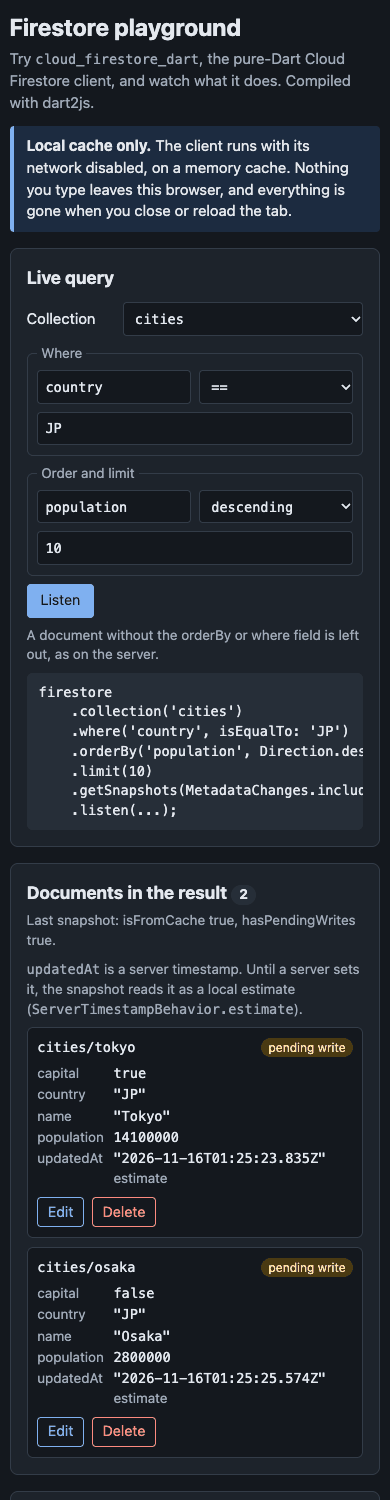
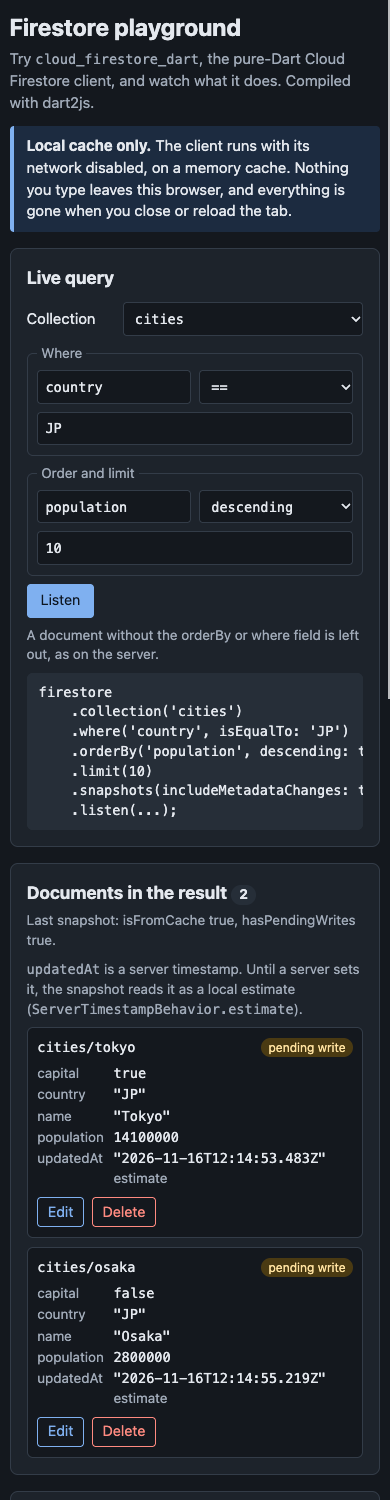
Move the playground to the 0.2 API
The page shows the Dart code of its query, which still read like 0.1
(getSnapshots, Direction). It now shows and runs the 0.2 calls; a where
clause on null becomes isNull, the only null comparison 0.2 accepts. The
screenshots are taken again because the code they show changed.

diff --git a/examples/playground/lib/playground.dart b/examples/playground/lib/playground.dart
@@ -13,7 +13,7 @@ import 'package:firebase_app_dart/firebase_app_dart.dart';
 /// the client never sends a request with them (see [openOffline]).
 const FirebaseOptions playgroundOptions = FirebaseOptions(
   apiKey: 'demo-key',
-  applicationId: '1:1234567890:web:playground',
+  appId: '1:1234567890:web:playground',
   projectId: 'demo-playground',
 );
 
@@ -25,15 +25,13 @@ const List<String> playgroundCollections = <String>['cities', 'tasks'];
 ///
 /// The client starts its network on its own queue when it is created, but it
 /// opens a stream only for a listener or a pending write. Both are queued
-/// behind [Firestore.disableNetwork] here, so no stream is ever opened and no
-/// request is ever made. A memory cache starts empty, so there is no pending
-/// write from an earlier visit that the start could try to send.
-Future<Firestore> openOffline(FirebaseApp app) async {
-  final Firestore firestore = Firestore.instanceFor(
+/// behind [FirebaseFirestore.disableNetwork] here, so no stream is ever opened
+/// and no request is ever made. A memory cache starts empty, so there is no
+/// pending write from an earlier visit that the start could try to send.
+Future<FirebaseFirestore> openOffline(FirebaseApp app) async {
+  final FirebaseFirestore firestore = FirebaseFirestore.instanceFor(
     app: app,
-    settings: FirestoreSettings().copyWith(
-      cacheSettings: const MemoryCacheSettings(),
-    ),
+    settings: Settings().copyWith(cacheSettings: const MemoryCacheSettings()),
   );
   await firestore.disableNetwork();
   return firestore;
@@ -83,12 +81,22 @@ class QuerySpec {
 
   /// The query on [firestore]. Throws what the client throws for a query it
   /// does not accept (an [ArgumentError] for an invalid field, for example).
-  Query<Map<String, Object?>> build(Firestore firestore) {
+  Query<Map<String, Object?>> build(FirebaseFirestore firestore) {
     Query<Map<String, Object?>> query = firestore.collection(collection);
     if (_hasWhere) {
       final Object? value = parseValue(whereValue);
       query = switch (op) {
         WhereOp.none => query,
+        // A null argument counts as not given: == null and != null are
+        // isNull: true and isNull: false.
+        WhereOp.isEqualTo when value == null => query.where(
+          whereField,
+          isNull: true,
+        ),
+        WhereOp.isNotEqualTo when value == null => query.where(
+          whereField,
+          isNull: false,
+        ),
         WhereOp.isEqualTo => query.where(whereField, isEqualTo: value),
         WhereOp.isNotEqualTo => query.where(whereField, isNotEqualTo: value),
         WhereOp.isLessThan => query.where(whereField, isLessThan: value),
@@ -105,10 +113,7 @@ class QuerySpec {
       };
     }
     if (orderField.isNotEmpty) {
-      query = query.orderBy(
-        orderField,
-        descending ? Direction.descending : Direction.ascending,
-      );
+      query = query.orderBy(orderField, descending: descending);
     }
     final int? max = limit;
     if (max != null) {
@@ -123,22 +128,27 @@ class QuerySpec {
       "firestore\n    .collection('$collection')",
     );
     if (_hasWhere) {
+      final Object? value = parseValue(whereValue);
       code.write(
-        "\n    .where('$whereField', ${op.name}: "
-        '${_dartLiteral(parseValue(whereValue))})',
+        "\n    .where('$whereField', "
+        '${switch (op) {
+          WhereOp.isEqualTo when value == null => 'isNull: true',
+          WhereOp.isNotEqualTo when value == null => 'isNull: false',
+          _ => '${op.name}: ${_dartLiteral(value)}',
+        }})',
       );
     }
     if (orderField.isNotEmpty) {
       code.write(
         "\n    .orderBy('$orderField'"
-        '${descending ? ', Direction.descending' : ''})',
+        '${descending ? ', descending: true' : ''})',
       );
     }
     if (limit != null) {
       code.write('\n    .limit($limit)');
     }
     code.write(
-      '\n    .getSnapshots(MetadataChanges.include)\n    .listen(...);',
+      '\n    .snapshots(includeMetadataChanges: true)\n    .listen(...);',
     );
     return code.toString();
   }

diff --git a/examples/playground/web/main.dart b/examples/playground/web/main.dart
@@ -17,7 +17,7 @@ import 'package:web/web.dart' as web;
 const int _maxEvents = 60;
 
 late final FirebaseApp _app;
-late Firestore _firestore;
+late FirebaseFirestore _firestore;
 
 /// Bumped by a reset: callbacks of the instance before it do nothing.
 int _generation = 0;
@@ -112,7 +112,7 @@ void _listen() {
   );
   final int generation = _generation;
   _subscription = query
-      .getSnapshots(MetadataChanges.include)
+      .snapshots(includeMetadataChanges: true)
       .listen(
         (QuerySnapshot<Map<String, Object?>> snapshot) {
           if (generation == _generation) {
@@ -133,8 +133,8 @@ void _onSnapshot(QuerySnapshot<Map<String, Object?>> snapshot) {
   _renderDocuments(snapshot);
   final List<String> changes = <String>[
     for (final DocumentChange<Map<String, Object?>> change
-        in snapshot.getDocumentChanges(MetadataChanges.include))
-      '${change.type.name} ${change.document.ref.path}'
+        in snapshot.docChanges)
+      '${change.type.name} ${change.doc.reference.path}'
           '${change.type == DocumentChangeType.removed ? '' : ' at ${change.newIndex}'}',
   ];
   _logEvent(
@@ -177,12 +177,12 @@ void _renderDocuments(QuerySnapshot<Map<String, Object?>> snapshot) {
 }
 
 web.Element _card(QueryDocumentSnapshot<Map<String, Object?>> doc) {
-  final String path = doc.ref.path;
+  final String path = doc.reference.path;
   // A server timestamp the backend has not set yet reads as null; `estimate`
   // gives the local time instead.
-  final Map<String, Object?> raw = doc.getData(ServerTimestampBehavior.none);
-  final Map<String, Object?> data = doc.getData(
-    ServerTimestampBehavior.estimate,
+  final Map<String, Object?> raw = doc.data();
+  final Map<String, Object?> data = doc.data(
+    serverTimestamps: ServerTimestampBehavior.estimate,
   );
   final web.Element card = _element('li', className: 'card');
   final web.Element header = _element('div', className: 'card-head')
@@ -210,10 +210,12 @@ web.Element _card(QueryDocumentSnapshot<Map<String, Object?>> doc) {
   }
   card.append(fields);
   final web.HTMLButtonElement edit = _button('Edit', 'Edit $path')
-    ..onClick.listen((_) => _edit(doc.ref, raw));
+    ..onClick.listen((_) => _edit(doc.reference, raw));
   final web.HTMLButtonElement delete = _button('Delete', 'Delete $path')
     ..className = 'danger'
-    ..onClick.listen((_) => _track('delete', <String>[path], doc.ref.delete()));
+    ..onClick.listen(
+      (_) => _track('delete', <String>[path], doc.reference.delete()),
+    );
   card.append(
     _element('div', className: 'actions')
       ..append(edit)

diff --git a/examples/playground/test/playground_test.dart b/examples/playground/test/playground_test.dart
@@ -12,7 +12,7 @@ import 'package:test/test.dart';
 void main() {
   test('a write shows in the listener at once and stays pending', () async {
     final FirebaseApp app = FirebaseApp.withOptions(playgroundOptions);
-    final Firestore firestore = await openOffline(app);
+    final FirebaseFirestore firestore = await openOffline(app);
     addTearDown(firestore.terminate);
 
     const QuerySpec spec = QuerySpec(
@@ -26,7 +26,7 @@ void main() {
     );
     final StreamIterator<QuerySnapshot<Map<String, Object?>>> snapshots =
         StreamIterator<QuerySnapshot<Map<String, Object?>>>(
-          spec.build(firestore).getSnapshots(MetadataChanges.include),
+          spec.build(firestore).snapshots(includeMetadataChanges: true),
         );
     addTearDown(snapshots.cancel);
 
@@ -44,10 +44,7 @@ void main() {
       <String>['tokyo'],
     );
     expect(snapshot.metadata.hasPendingWrites, isTrue);
-    expect(
-      snapshot.getDocumentChanges(MetadataChanges.include).single.type,
-      DocumentChangeType.added,
-    );
+    expect(snapshot.docChanges.single.type, DocumentChangeType.added);
 
     // No backend: the write is never acknowledged.
     bool done = false;
@@ -69,7 +66,19 @@ void main() {
     expect(
       spec.toDart(),
       "firestore\n    .collection('tasks')\n    .where('priority', isLessThan: 3)"
-      '\n    .limit(5)\n    .getSnapshots(MetadataChanges.include)\n    .listen(...);',
+      '\n    .limit(5)\n    .snapshots(includeMetadataChanges: true)\n    .listen(...);',
+    );
+    // where(field, isEqualTo: null) is not a filter in 0.2: null is isNull.
+    const QuerySpec nulls = QuerySpec(
+      collection: 'tasks',
+      whereField: 'done',
+      op: WhereOp.isEqualTo,
+      whereValue: 'null',
+    );
+    expect(
+      nulls.toDart(),
+      "firestore\n    .collection('tasks')\n    .where('done', isNull: true)"
+      '\n    .snapshots(includeMetadataChanges: true)\n    .listen(...);',
     );
     expect(parseValue('Paris'), 'Paris');
     expect(parseValue('"Paris"'), 'Paris');

diff --git a/examples/playground/README.md b/examples/playground/README.md
@@ -13,7 +13,8 @@ What you can do:
 - Add, edit and delete documents in two collections, `cities` and `tasks`, or add sample data
   in one batch.
 - Build a query (a collection, one where clause, one orderBy, a limit) and listen to it. The
-  page shows the Dart code of the listener.
+  page shows the Dart code of the listener. A where value of `null` with `==` or `!=` becomes
+  `isNull: true` or `isNull: false`: the client takes a null comparison only that way.
 - Watch each snapshot arrive: the documents it added, modified or removed, and its
   `isFromCache` and `hasPendingWrites` flags.
 - See the writes that wait for a server. There is none, so every write stays in that queue and
@@ -53,7 +54,7 @@ flowchart LR
 
 `lib/playground.dart` opens the instance (`openOffline`):
 
-1. `Firestore.instanceFor` with `MemoryCacheSettings`. The client starts its network on its own
+1. `FirebaseFirestore.instanceFor` with `MemoryCacheSettings`. The client starts its network on its own
    queue, but it opens a stream only for a listener or a pending write, and there is none yet.
 2. `disableNetwork()`, queued right behind the start. Every listener and write of the page is
    queued after it, so no stream is ever opened.
@@ -126,12 +127,12 @@ a newer build.
 
 ## Sizes
 
-Measured with Dart 3.12.2 and `-O2`; gzipped with `gzip -9`.
+Measured with Dart 3.12.2 and `-O2`, with `cloud_firestore_dart` 0.2.0; gzipped with `gzip -9`.
 
 | File | Bytes | Gzipped |
 | --- | ---: | ---: |
-| `main.dart.js` | 680,865 | 207,234 |
-| `main.wasm` + `main.mjs` | 631,009 + 17,411 | 244,953 + 4,554 |
+| `main.dart.js` | 685,722 | 208,214 |
+| `main.wasm` + `main.mjs` | 635,537 + 17,411 | 245,805 + 4,554 |
 | `index.html` + `styles.css` + `bootstrap.js` + `favicon.svg` | 15,754 | 5,323 |
 
 ## Status
@@ -141,6 +142,11 @@ Measured with Dart 3.12.2 and `-O2`; gzipped with `gzip -9`.
   sub-path: sample data, an edit, a new document, a delete, a where clause, an invalid field
   path, and **Reset**. The network log showed only the page's own files, and the console stayed
   empty, also for 8 seconds after the last action.
+- Run again the same way with version 0.2.0 of the packages (Chrome 157, both builds, under
+  `/firebase_dart_sdk/`), adding a where clause on `null` (`isNull: false` in the code shown):
+  the network log had only the page's own files (5 requests for the dart2js build, 6 for
+  dart2wasm, all to the page's origin), and the console stayed empty. The two screenshots above
+  were taken then, from the dart2js build at 1280 and 390 pixels wide.
 - Not tried in other browsers, and not yet published anywhere.
 
 ## Dependencies
